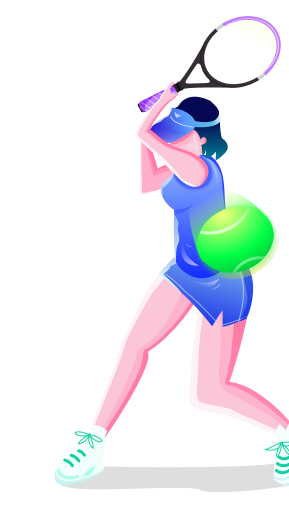
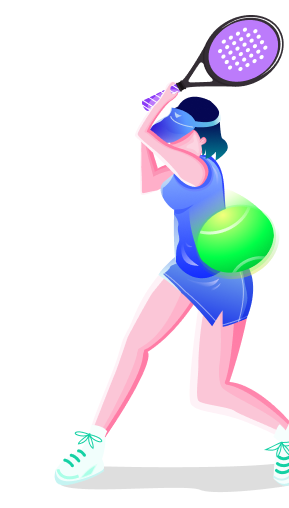
feature: changed images containing badminton to pickel ball

Changed region(s): [[0.5917, 0.0295, 0.9965, 0.2067], [0.4671, 0.1772, 0.5606, 0.2362]]

diff --git a/src/app/page.tsx b/src/app/page.tsx
@@ -8,15 +8,15 @@ import { loginAction } from "@/actions";
 import React, { useState, useEffect } from "react";
 import { useRouter } from "next/navigation";
 import { useSession } from "next-auth/react";
-import {  Eye, EyeOff } from "@/utils/svgicons";
+import { Eye, EyeOff } from "@/utils/svgicons";
 
 export default function LoginPage() {
- const [email, setEmail] = useState("");
- const [password, setPassword] = useState("");
- const [isPending, startTransition] = React.useTransition();
- const router = useRouter();
- const { data: session } = useSession();
-const [showPassword, setShowPassword] = useState(false);
+  const [email, setEmail] = useState("");
+  const [password, setPassword] = useState("");
+  const [isPending, startTransition] = React.useTransition();
+  const router = useRouter();
+  const { data: session } = useSession();
+  const [showPassword, setShowPassword] = useState(false);
 
   useEffect(() => {
     if (session) {
@@ -24,83 +24,83 @@ const [showPassword, setShowPassword] = useState(false);
 
         router.push("/authority/matches");
       } else {
-           router.push("/authority/dashboard");
+        router.push("/authority/dashboard");
       }
-              // router.push("/authority/dashboard");
+      // router.push("/authority/dashboard");
 
     }
   }, [session, router]);
- const handleSubmit: React.FormEventHandler<HTMLFormElement> = (event) => {
-  event.preventDefault();
+  const handleSubmit: React.FormEventHandler<HTMLFormElement> = (event) => {
+    event.preventDefault();
 
-  const emailRegex = /^[^\s@]+@[^\s@]+\.[^\s@]+$/;
-  const phoneRegex = /^\d{10}$/;
+    const emailRegex = /^[^\s@]+@[^\s@]+\.[^\s@]+$/;
+    const phoneRegex = /^\d{10}$/;
 
-  if (!emailRegex.test(email) && !phoneRegex.test(email)) {
-   toast.error("Please enter a valid email or phone number.");
-   return;
-  }
+    if (!emailRegex.test(email) && !phoneRegex.test(email)) {
+      toast.error("Please enter a valid email or phone number.");
+      return;
+    }
 
-  if (!password) {
-   toast.error("Password is required.");
-   return;
-  }
+    if (!password) {
+      toast.error("Password is required.");
+      return;
+    }
 
-  startTransition(async () => {
-    try {
-      const response = await loginAction({ email, password });
-  
-      if (response?.success) {
-        toast.success("Logged in successfully");
+    startTransition(async () => {
+      try {
+        const response = await loginAction({ email, password });
+
+        if (response?.success) {
+          toast.success("Logged in successfully");
           if (response?.data?.user?.role === "employee") {
-          router.push("/authority/matches");
-          setTimeout(function() {
-    window.location.reload();
-}, 500);
-        } 
+            router.push("/authority/matches");
+            setTimeout(function () {
+              window.location.reload();
+            }, 500);
+          }
+          else {
+            window.location.href = "/authority/dashboard";
+
+          }
+        }
+        else if (response?.message === "Invalid password") {
+          toast.error(response?.message)
+        }
         else {
-          window.location.href = "/authority/dashboard";
-          
+          console.error("Login failed: ", response);
+          toast.error("An error occurred during login.");
         }
       }
-      else if (response?.message === "Invalid password") {
-        toast.error(response?.message)
+      catch (error) {
+        console.error("Login action error:", error);
+        toast.error("Something went wrong! Please try again.");
       }
-      else {
-        console.error("Login failed: ", response);
-        toast.error("An error occurred during login.");
-      }
-    } 
-    catch (error) {
-      console.error("Login action error:", error);
-      toast.error("Something went wrong! Please try again.");
-    }
-  });
- };
+    });
+  };
 
- return (
-  <div className="flex h-screen w-screen items-center justify-center bg-gray-100">
-   <div className="flex w-full h-full bg-white shadow-lg">
-    <div className="m-[20px] hidden w-full rounded-[20px] md:flex md:w-[50%] bg-[#e9f5fe] items-center justify-center">
-     <Image src={Login} alt="Illustration" className=" w-[80%]" />
-    </div>
-    <div className="w-full md:w-[60%] p-8 flex flex-col justify-center">
-     <div className="text-center mb-6 space-y-[20px]">
-      <Image src={Logo} alt="Play Adel Pickle" className="mx-auto " />
-      <h2 className="text-center text-[#1b2229] text-3xl font-semibold">Welcome Back</h2>
-     </div>
-     <form onSubmit={handleSubmit} className="w-full space-y-[20px] max-w-sm mx-auto">
-      <div className="space-y-[10px]">
-       <label className="text-[#1b2229] text-base font-medium">Email Address</label>
-       <input 
-        type="email" 
-        value={email} 
-        onChange={(e) => setEmail(e.target.value)} 
-        className="text-[#919191] text-base font-medium w-full h-[50px] px-5 py-4 bg-[#f4f5f7] rounded-[49px] border focus:border-[#176dbf] focus:ring-blue-400" 
-        placeholder="Enter your email" 
-       />
-      </div>
-      {/* <div className="space-y-[10px]">
+  return (
+    <div className="flex h-screen w-screen items-center justify-center bg-gray-100">
+      <div className="flex w-full h-full bg-white shadow-lg">
+        <div className="m-[20px] hidden w-full rounded-[20px] md:flex md:w-[48%] bg-[#e9f5fe] items-center justify-center">
+          <Image src={Login} alt="Illustration" className=" w-[80%]" />
+        </div>
+        <div className="w-full md:w-[60%] p-8 flex flex-col justify-center">
+          <div className="text-center mb-6 space-y-[20px]">
+            <Image src={Logo} alt="Play Adel Pickle" className="mx-auto " />
+            <h2 className="text-center text-[#1b2229] text-3xl font-semibold">Welcome Back</h2>
+          </div>
+          <form onSubmit={handleSubmit} className="w-full space-y-[20px] max-w-sm mx-auto">
+            <div className="space-y-[10px]">
+              <label className="text-[#1b2229] text-base font-medium">Email Address</label>
+              <input
+                type="email"
+                value={email}
+                onChange={(e) => setEmail(e.target.value)}
+                className="text-[#919191] text-base font-medium w-full h-[50px] px-5 py-4 bg-[#f4f5f7] rounded-[49px] border focus:border-[#176dbf] focus:ring-blue-400"
+                placeholder="Enter your email"
+              />
+            </div>
+            {/* <div className="space-y-[10px]">
        <label className="text-[#1b2229] text-base font-medium">Your Password</label>
        <input 
         type="password" 
@@ -110,45 +110,45 @@ const [showPassword, setShowPassword] = useState(false);
         placeholder="Enter your password" 
        />
       </div> */}
-      <div className="space-y-[10px] relative">
-  <label className="text-[#1b2229] text-base font-medium">Your Password</label>
-  <input 
-    type={showPassword ? "text" : "password"}
-    value={password}
-    onChange={(e) => setPassword(e.target.value)} 
-    className="text-[#919191] text-base font-medium w-full h-[50px] px-5 py-4 bg-[#f4f5f7] rounded-[49px] border focus:border-[#176dbf] focus:ring-blue-400 pr-12"
-    placeholder="Enter your password" 
-  />
-  <button
-    type="button"
-    onClick={() => setShowPassword(!showPassword)}
-    className="absolute top-[44px] right-4 text-[#176dbf] hover:text-[#104c8c]"
-    tabIndex={-1}
-  >
+            <div className="space-y-[10px] relative">
+              <label className="text-[#1b2229] text-base font-medium">Your Password</label>
+              <input
+                type={showPassword ? "text" : "password"}
+                value={password}
+                onChange={(e) => setPassword(e.target.value)}
+                className="text-[#919191] text-base font-medium w-full h-[50px] px-5 py-4 bg-[#f4f5f7] rounded-[49px] border focus:border-[#176dbf] focus:ring-blue-400 pr-12"
+                placeholder="Enter your password"
+              />
+              <button
+                type="button"
+                onClick={() => setShowPassword(!showPassword)}
+                className="absolute top-[44px] right-4 text-[#176dbf] hover:text-[#104c8c]"
+                tabIndex={-1}
+              >
                 {showPassword ? <EyeOff /> : <Eye />}
-  </button>
-</div>
-      <div className="flex justify-end items-right mb-4">
-       <Link href="/forgot-password" className="items-right text-right text-[#176dbf] text-base font-medium hover:underline">
-        Forgot Password?
-       </Link>
+              </button>
+            </div>
+            <div className="flex justify-end items-right mb-4">
+              <Link href="/forgot-password" className="items-right text-right text-[#176dbf] text-base font-medium hover:underline">
+                Forgot Password?
+              </Link>
+            </div>
+            <button
+              type="submit"
+              className="text-white text-base font-medium h-[50px] w-full bg-[#176dbf] rounded-[49px] hover:bg-blue-600 transition flex items-center justify-center disabled:opacity-50 disabled:cursor-not-allowed"
+              disabled={isPending}
+            >
+              {isPending ? (
+                <svg className="animate-spin h-5 w-5 mr-2 text-white" xmlns="http://www.w3.org/2000/svg" fill="none" viewBox="0 0 24 24">
+                  <circle className="opacity-25" cx="12" cy="12" r="10" stroke="currentColor" strokeWidth="4"></circle>
+                  <path className="opacity-75" fill="currentColor" d="M4 12a8 8 0 018-8V0C5.373 0 0 5.373 0 12h4zm2 5.291A7.962 7.962 0 014 12H0c0 3.042 1.135 5.824 3 7.938l3-2.647z"></path>
+                </svg>
+              ) : null}
+              {isPending ? 'Logging in...' : 'Log In'}
+            </button>
+          </form>
+        </div>
       </div>
-      <button 
-        type="submit" 
-        className="text-white text-base font-medium h-[50px] w-full bg-[#176dbf] rounded-[49px] hover:bg-blue-600 transition flex items-center justify-center disabled:opacity-50 disabled:cursor-not-allowed"
-        disabled={isPending}
-      >
-        {isPending ? (
-          <svg className="animate-spin h-5 w-5 mr-2 text-white" xmlns="http://www.w3.org/2000/svg" fill="none" viewBox="0 0 24 24">
-            <circle className="opacity-25" cx="12" cy="12" r="10" stroke="currentColor" strokeWidth="4"></circle>
-            <path className="opacity-75" fill="currentColor" d="M4 12a8 8 0 018-8V0C5.373 0 0 5.373 0 12h4zm2 5.291A7.962 7.962 0 014 12H0c0 3.042 1.135 5.824 3 7.938l3-2.647z"></path>
-          </svg>
-        ) : null}
-        {isPending ? 'Logging in...' : 'Log In'}
-      </button>
-     </form>
     </div>
-   </div>
-  </div>
- );
+  );
 }

diff --git a/src/app/authority/inventory/page.tsx b/src/app/authority/inventory/page.tsx
@@ -707,11 +707,11 @@ useEffect(() => {
     <DialogTitle className="text-center text-[#10375c] text-[22px] sm:text-[28px] font-extrabold mb-[30px] sm:mb-[30px]">
       Add New Item
     </DialogTitle>
-    <DialogContent className="p-0" sx={{ overflowY: 'hidden' }}>
+    <DialogContent className="p-0" sx={{ }}>
       <form onSubmit={handleSubmit(onSubmit)}>
-        <div className="flex flex-col gap-6 mb-2">
+        <div className="flex flex-col gap-6 ">
           <div className="flex-1">
-            <label className="block text-[#1b2229] text-xs sm:text-sm font-medium mb-2">
+            <label className="block text-[#1b2229] text-xs sm:text-sm font-medium mb-1">
               Name of The Item
             </label>
             <input
@@ -832,7 +832,7 @@ useEffect(() => {
 }
           </div>
         </div>
-        <DialogActions className="p-0 flex justify-between gap-4 w-full">
+        <DialogActions className="p-0 flex justify-between gap-4 w-full p-2">
           <Button
             type="button"
             fullWidth

diff --git a/src/app/authority/components/users/userComponent.tsx b/src/app/authority/components/users/userComponent.tsx
@@ -267,7 +267,7 @@ export default function UsersComponent() {
                     <Image
                       src={Human}
                       alt="Tennis Player Illustration"
-                      className="object-contain max-w-full h-auto absolute right-1 top-[-30px] w-[250px] sm:top-[-130px] md:top-[-260px] lg:top-[-80px] z-10 sm:w-[300px] md:w-[380px] lg:w-[280px]"
+                      className="object-contain max-w-full h-auto absolute right-0 top-[-20px] w-[250px] sm:top-[-130px] md:top-[-275px] lg:top-[-75px] z-10 sm:w-[300px] md:w-[380px] lg:w-[280px]"
                       width={300}
                       height={180}
                       sizes="(max-width: 640px) 200px, (max-width: 768px) 150px, (max-width: 1024px) 180px, 300px"

diff --git a/src/app/authority/components/users/singleUserProfile.tsx b/src/app/authority/components/users/singleUserProfile.tsx
@@ -224,7 +224,7 @@ export default function SingleUserProfile() {
                 <Image
                   src={Human}
                   alt="Tennis Player Illustration"
-                  className="object-contain max-w-full h-auto absolute right-1 top-[-30px] w-[250px] sm:top-[-130px] md:top-[-260px] lg:top-[-80px] z-10 sm:w-[300px] md:w-[380px] lg:w-[280px]"
+                  className="object-contain max-w-full h-auto absolute right-0 top-[-30px] w-[250px] sm:top-[-130px] md:top-[-250px] lg:top-[-50px] z-10 sm:w-[300px] md:w-[380px] lg:w-[280px]"
                   width={300}
                   height={180}
                   sizes="(max-width: 640px) 200px, (max-width: 768px) 150px, (max-width: 1024px) 180px, 300px"
